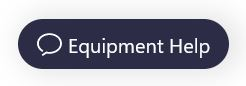
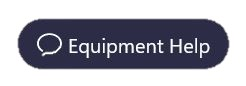
fixed equipmentHelp image

diff --git a/GammaRadiation/index.html b/GammaRadiation/index.html
@@ -219,8 +219,8 @@
               </div>
               <div class="modal-body">
                 <img src="static/images/stop.jpg">
-                <p>Before continuing the lab please send a message to the equipment help</p>
-                <img src="static/images/equipmentHelp.JPG">
+                <p>Before continuing the lab please send a message using the equipment help button</p>
+                <img src="static/images/equipmentHelp.JPG" style="text-align: center;">
               </div>
           </div>
       </div>
